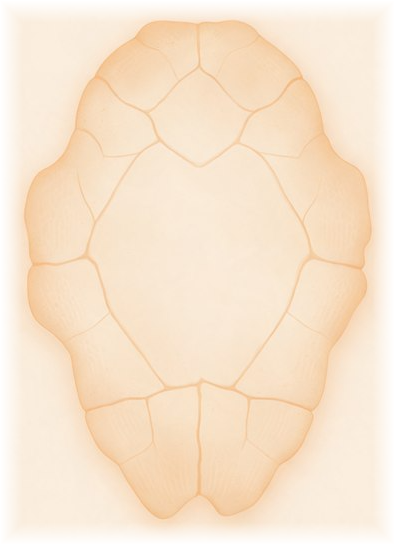
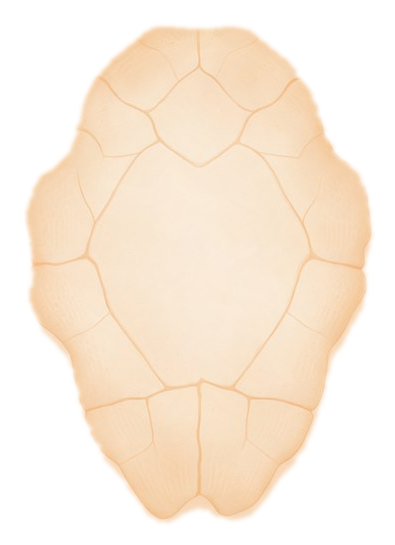
识字龟甲沿真实轮廓重切：旧片是羽化矩形，边缘混原底色在纸底上显晕；改漫水填底+内收阴影环+平滑抗锯齿，甲缘干净

diff --git a/qa-check.js b/qa-check.js
@@ -27,32 +27,40 @@ function jpegSize(fp) {
 }
 
 (async () => {
-  // 排除 edge:// 内置页（sync 弹窗也是 page target）；about:blank renderer 会无视
-  // metrics override，所以先选 target、加载真实页面，再套模拟并实测确认
-  const pg = (await getJson('http://localhost:9222/json'))
-    .find(x => x.type === 'page' && (x.url === 'about:blank' || x.url.startsWith('http')));
-  if (!pg) throw new Error('没有可用的 page target');
-  const ws = new WebSocket(pg.webSocketDebuggerUrl);
-  await new Promise(r => ws.onopen = r);
-  let id = 0; const pend = new Map();
   const errors = [];
-  ws.onmessage = e => {
-    const m = JSON.parse(e.data);
-    if (m.id && pend.has(m.id)) { pend.get(m.id)(m.result); pend.delete(m.id); return; }
-    if (m.method === 'Runtime.exceptionThrown')
-      errors.push('exception: ' + (m.params.exceptionDetails.exception?.description || m.params.exceptionDetails.text));
-    if (m.method === 'Runtime.consoleAPICalled' && m.params.type === 'error')
-      errors.push('console.error: ' + m.params.args.map(a => a.value || a.description || '').join(' '));
-  };
-  const send = (method, params = {}) => new Promise(res => {
-    const mid = ++id; pend.set(mid, res); ws.send(JSON.stringify({ id: mid, method, params }));
-  });
-  const ev = e => send('Runtime.evaluate', { expression: e, awaitPromise: true, returnByValue: true }).then(r => {
-    if (r.result.exceptionDetails) errors.push('eval: ' + (r.result.exceptionDetails.exception?.description || r.result.exceptionDetails.text));
-    return r.result.value;
-  });
+  // 僵尸 target（崩溃 headless 残留，假 360x50 视口）和 edge:// 弹窗都不能用：
+  // 逐个 candidate 连接、加载真实页、套模拟、实测内宽，第一个通过的才是活 target
+  let ws = null, send, ev, go;
+  const candidates = (await getJson('http://localhost:9222/json'))
+    .filter(x => x.type === 'page' && (x.url === 'about:blank' || x.url.startsWith('http')));
+  for (const pg of candidates) {
+    const w = new WebSocket(pg.webSocketDebuggerUrl);
+    await new Promise(r => w.onopen = r);
+    let id = 0; const pend = new Map();
+    w.onmessage = e => {
+      const m = JSON.parse(e.data);
+      if (m.id && pend.has(m.id)) { pend.get(m.id)(m.result); pend.delete(m.id); return; }
+      if (m.method === 'Runtime.exceptionThrown')
+        errors.push('exception: ' + (m.params.exceptionDetails.exception?.description || m.params.exceptionDetails.text));
+      if (m.method === 'Runtime.consoleAPICalled' && m.params.type === 'error')
+        errors.push('console.error: ' + m.params.args.map(a => a.value || a.description || '').join(' '));
+    };
+    const s = (method, params = {}) => new Promise(res => {
+      const mid = ++id; pend.set(mid, res); w.send(JSON.stringify({ id: mid, method, params }));
+    });
+    const v = e => s('Runtime.evaluate', { expression: e, awaitPromise: true, returnByValue: true }).then(r => {
+      if (r.result.exceptionDetails) errors.push('eval: ' + (r.result.exceptionDetails.exception?.description || r.result.exceptionDetails.text));
+      return r.result.value;
+    });
+    const g = async (url, wait = 1200) => { await v(`location.href=${JSON.stringify(url)}`); await sleep(wait); };
+    await g('http://localhost:8765/?probe=' + Date.now(), 1000);
+    await s('Emulation.setDeviceMetricsOverride', { width: 320, height: 568, deviceScaleFactor: 2, mobile: true });
+    await sleep(300);
+    if (await v('innerWidth+"x"+innerHeight') === '320x568') { ws = w; send = s; ev = v; go = g; break; }
+    w.close(); errors.length = 0;
+  }
+  if (!ws) throw new Error('没有可用 target（全部是僵尸页），请重启 headless Edge');
   const activeId = () => ev(`[...document.querySelectorAll(".screen")].find(s=>s.classList.contains("active"))?.id||"-"`);
-  const go = async (url, wait = 1200) => { await ev(`location.href=${JSON.stringify(url)}`); await sleep(wait); };
 
   const SCREENS = ['s-home', 's-d-ask', 's-d-burn', 's-d-result', 's-quiz', 's-rub', 's-evo', 's-result'];
   const overflowAt = async (W, H) => {
